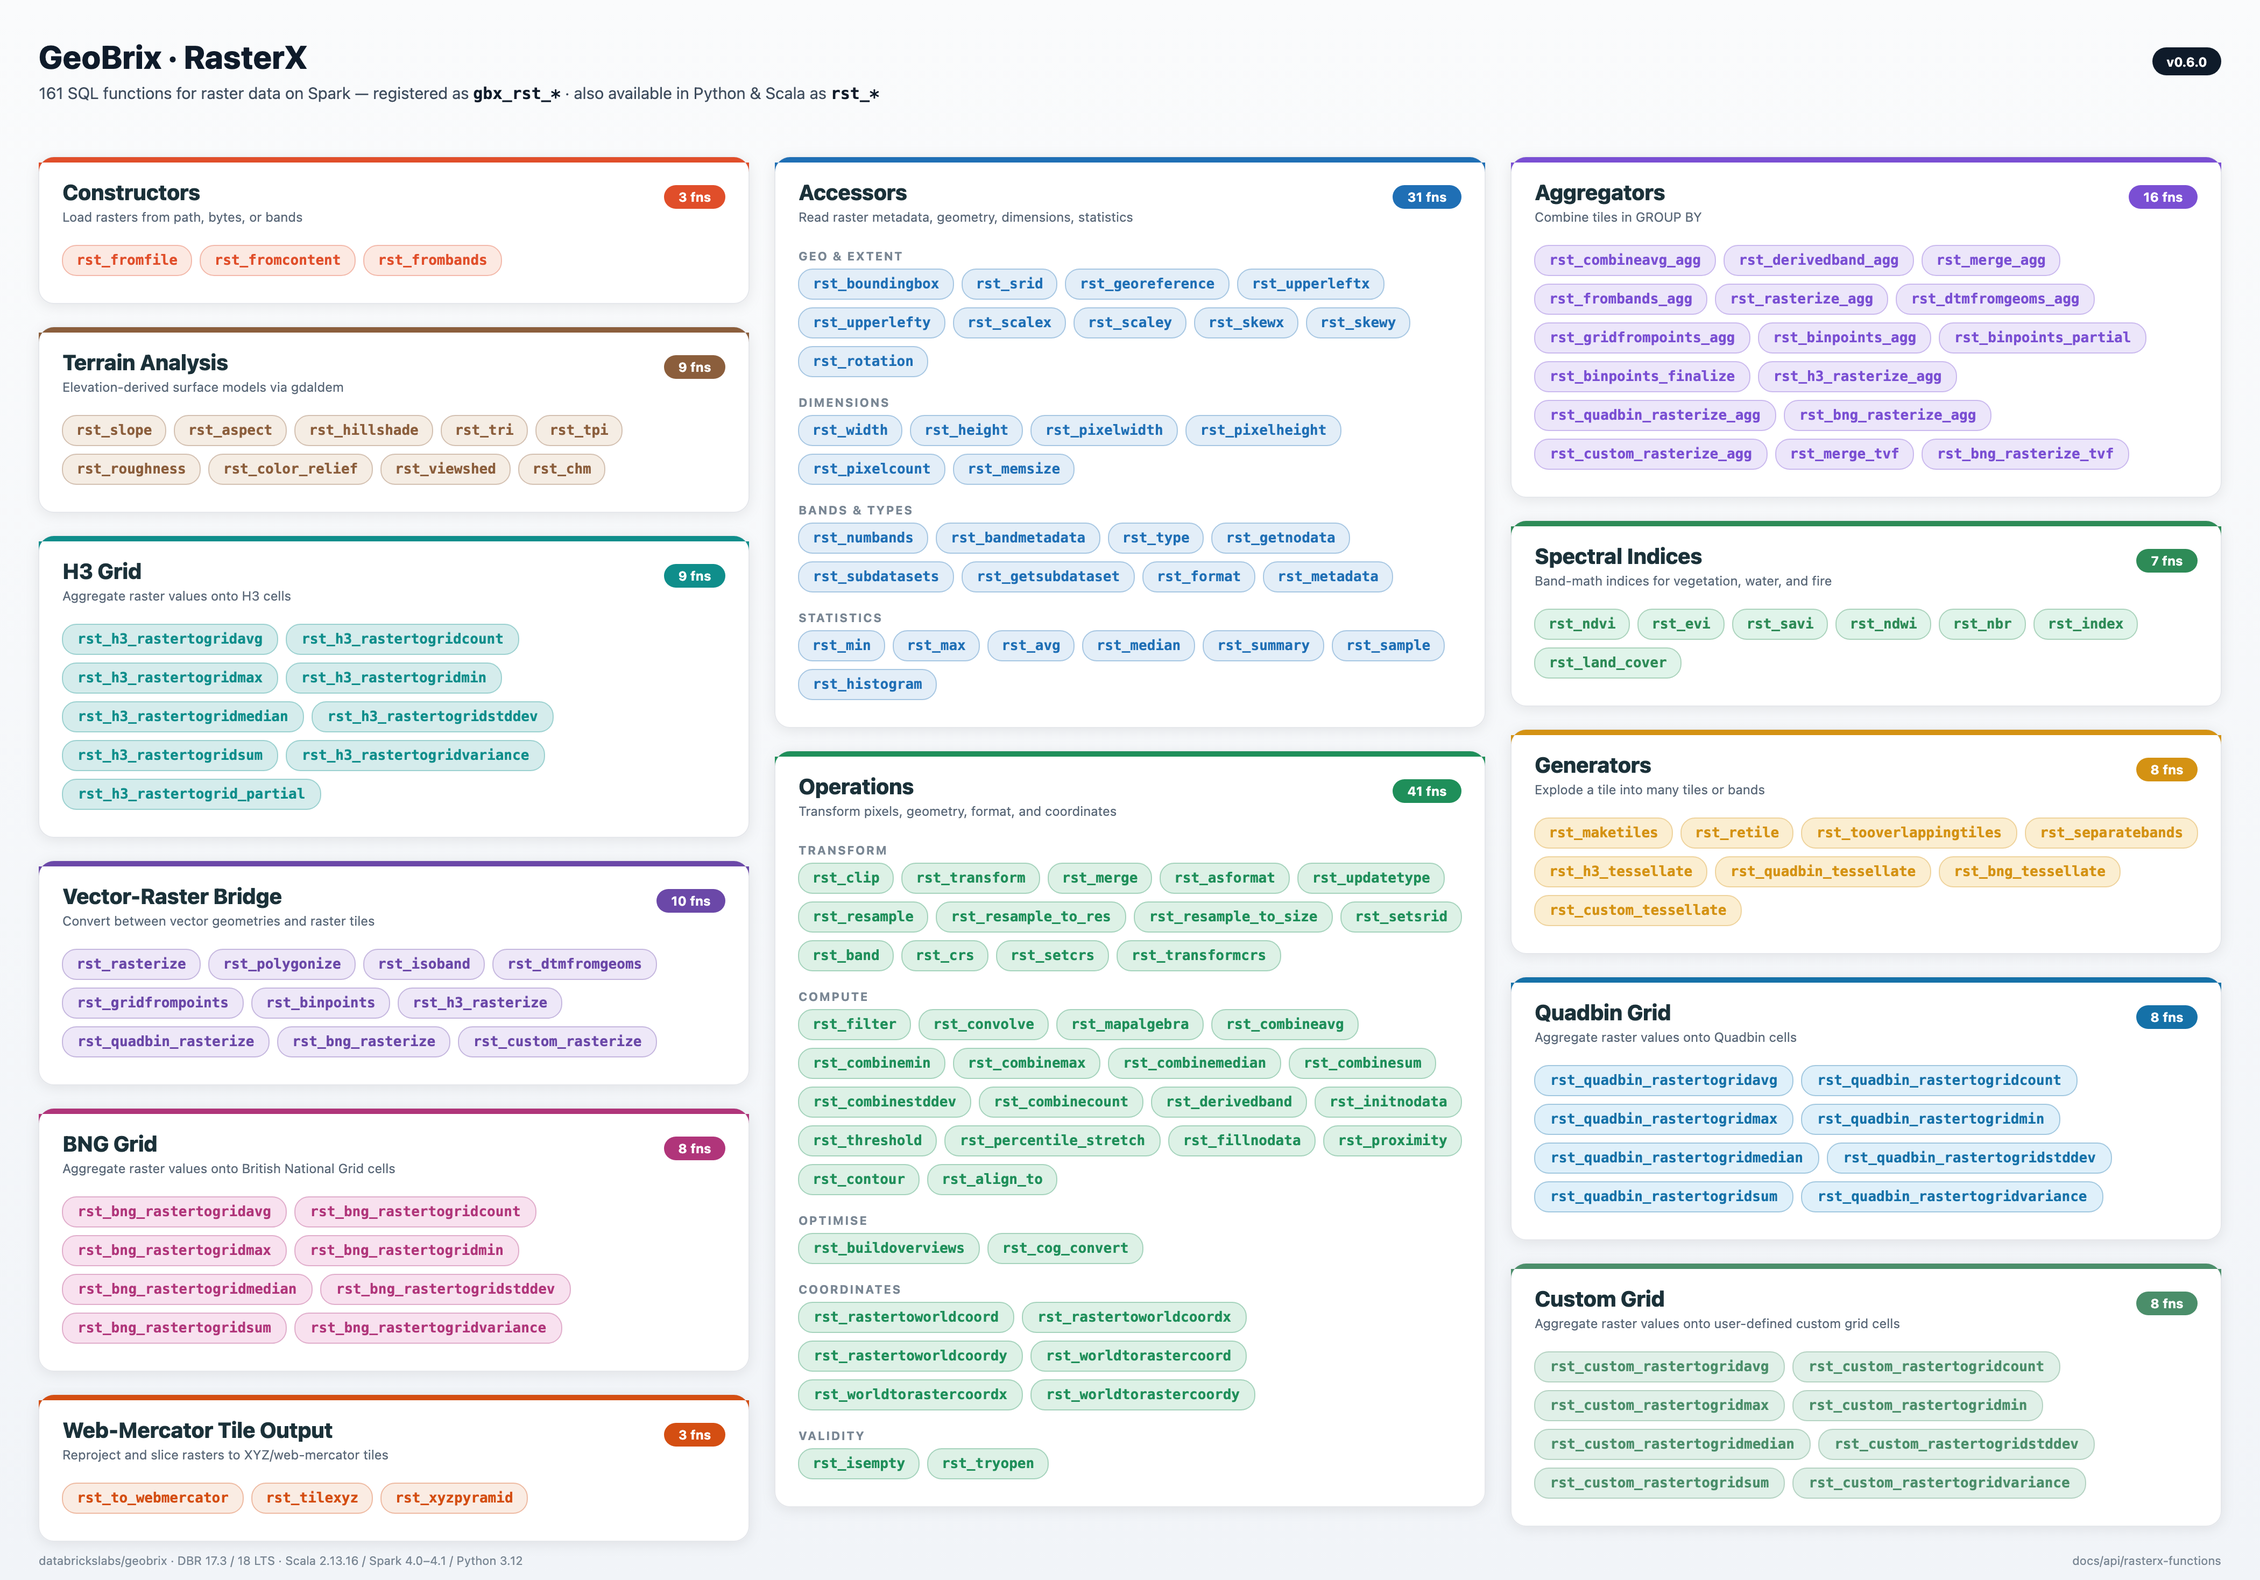
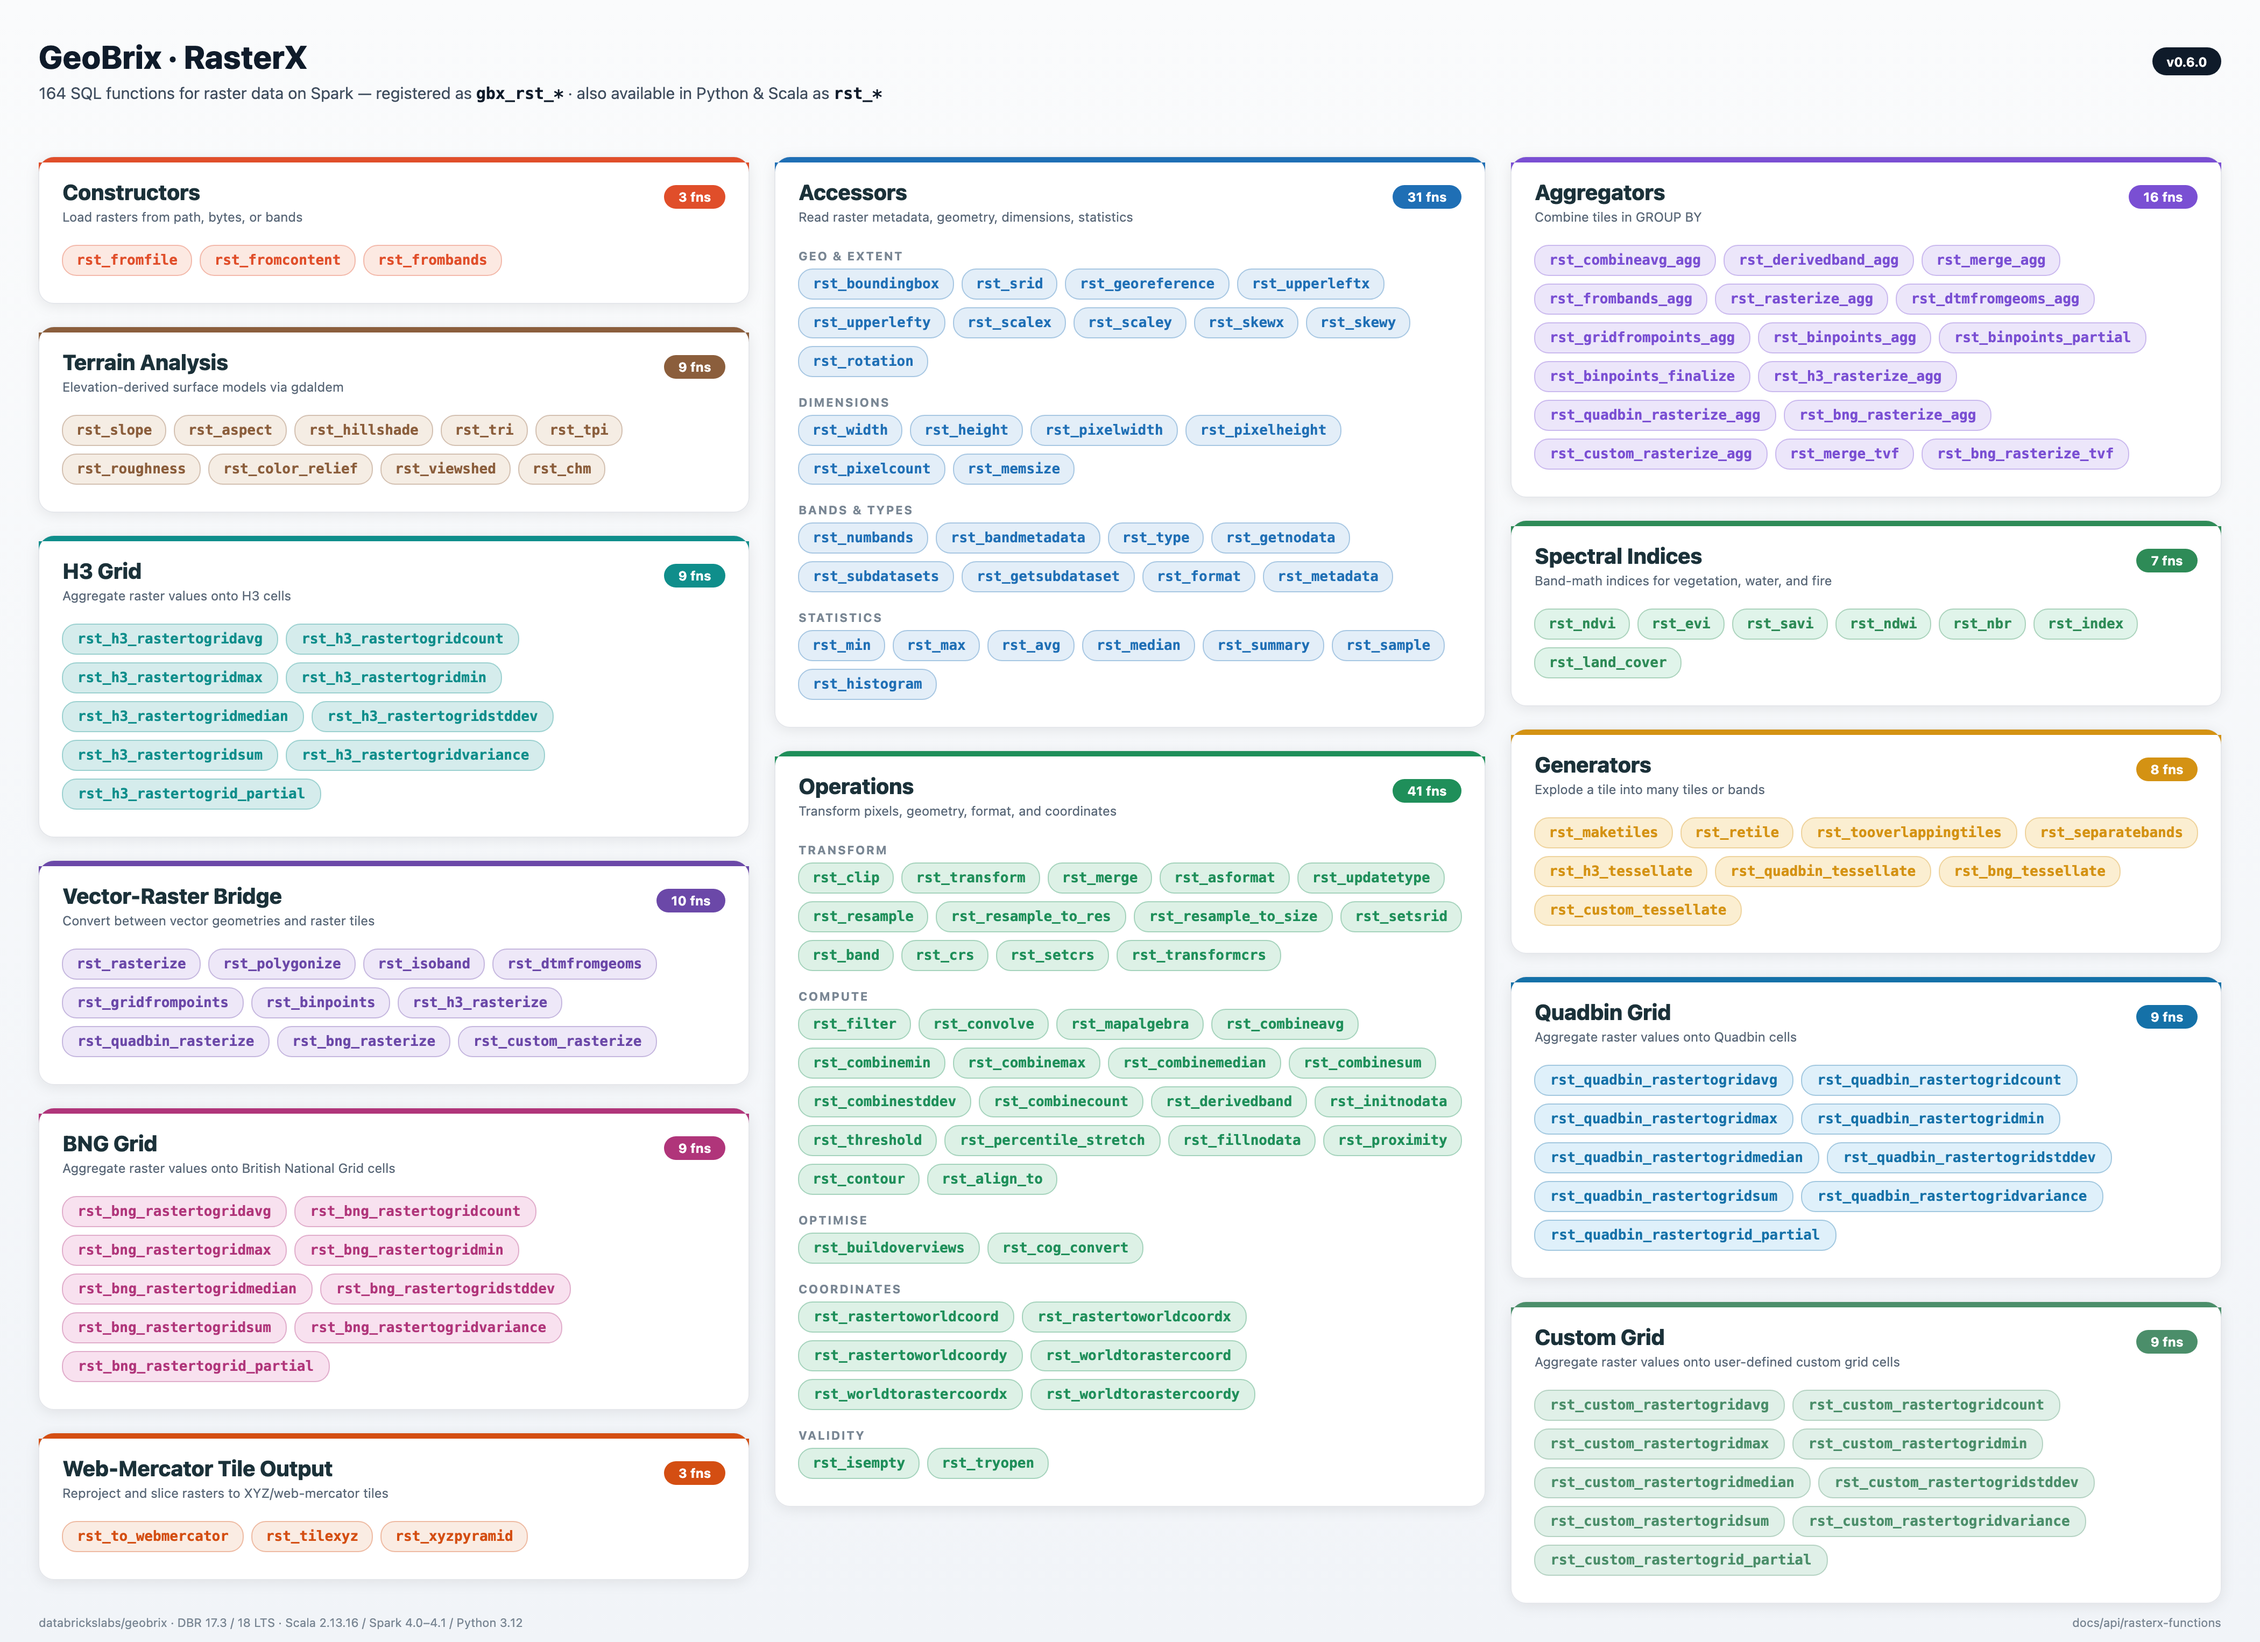
test: follow the range's changes in tier-b, runtime tests and diagram
CI would have caught these. The tier-b cap tests passed WKB bytes to the
geometry-array functions, which now take GEOMETRY values. The Connect
import tests named a BNG function that now runs as SQL and never reaches
the light level; they use one that still does. The RasterX diagram and the
intro count lacked the three new raster-to-grid partials.

Changed region(s): [[0.0, 0.093, 0.9981, 0.9608], [0.0, 0.031, 0.3743, 0.062]]

diff --git a/resources/images/generators/rasterx-function-categories.py b/resources/images/generators/rasterx-function-categories.py
@@ -28,7 +28,7 @@ Rasterize landscape PNG (for slides / 16:9 decks):
 from dataclasses import dataclass, field
 from textwrap import dedent
 
-# --- Data: 161 functions, organized by category --------------------------------
+# --- Data: 164 functions, organized by category --------------------------------
 
 @dataclass
 class Section:
@@ -189,6 +189,7 @@ CARDS_RIGHT = [
             "rst_quadbin_rastertogridmax", "rst_quadbin_rastertogridmin",
             "rst_quadbin_rastertogridmedian", "rst_quadbin_rastertogridstddev",
             "rst_quadbin_rastertogridsum", "rst_quadbin_rastertogridvariance",
+            "rst_quadbin_rastertogrid_partial",
         ],
     ),
     Card(
@@ -200,6 +201,7 @@ CARDS_RIGHT = [
             "rst_bng_rastertogridmax", "rst_bng_rastertogridmin",
             "rst_bng_rastertogridmedian", "rst_bng_rastertogridstddev",
             "rst_bng_rastertogridsum", "rst_bng_rastertogridvariance",
+            "rst_bng_rastertogrid_partial",
         ],
     ),
     Card(
@@ -211,6 +213,7 @@ CARDS_RIGHT = [
             "rst_custom_rastertogridmax", "rst_custom_rastertogridmin",
             "rst_custom_rastertogridmedian", "rst_custom_rastertogridstddev",
             "rst_custom_rastertogridsum", "rst_custom_rastertogridvariance",
+            "rst_custom_rastertogrid_partial",
         ],
     ),
     Card(
@@ -412,7 +415,7 @@ def render():
     )
     parts.append(
         f'<text x="{PAD}" y="{PAD + 56}" font-size="15" fill="#3F4D5E">'
-        f'161 SQL functions for raster data on Spark &#8212; registered as '
+        f'164 SQL functions for raster data on Spark &#8212; registered as '
         f'<tspan font-family="ui-monospace, SFMono-Regular, Menlo, monospace" '
         f'font-weight="700" fill="#0F1B2A">gbx_rst_*</tspan>'
         f' &#183; also available in Python &amp; Scala as '
@@ -521,7 +524,7 @@ def render_landscape():
     )
     parts.append(
         f'<text x="{PAD}" y="{PAD + 56}" font-size="15" fill="#3F4D5E">'
-        f'161 SQL functions for raster data on Spark &#8212; registered as '
+        f'164 SQL functions for raster data on Spark &#8212; registered as '
         f'<tspan font-family="ui-monospace, SFMono-Regular, Menlo, monospace" '
         f'font-weight="700" fill="#0F1B2A">gbx_rst_*</tspan>'
         f' &#183; also available in Python &amp; Scala as '

diff --git a/python/geobrix/test/manager/test_uc_tier_b.py b/python/geobrix/test/manager/test_uc_tier_b.py
@@ -7,6 +7,24 @@ from databricks.labs.gbx import manifest
 from databricks.labs.gbx.bench import oracles
 from databricks.labs.gbx.uc import tier_b
 
+
+class _Geometry:
+    """Stand-in for ``pyspark.sql.types.Geometry``, which a UC Python function receives for a GEOMETRY(ANY) element."""
+
+    def __init__(self, geom):
+        self._wkb = shapely.to_wkb(geom)
+
+    def getBytes(self):  # noqa: N802 - the pyspark name
+        return self._wkb
+
+    def getSrid(self):  # noqa: N802
+        return 0
+
+
+def _geometry():
+    return _Geometry(shapely.Point(1.0, 1.0))
+
+
 MAN = manifest.load()
 TIER_B = sorted(
     f.sql_name
@@ -450,8 +468,17 @@ def test_a_grid_over_the_cap_is_refused_before_the_kernel_is_asked_to_make_it(
     calls = {
         "gbx_rst_rasterize": (_square(), 1.0, *huge, 3857, None),
         "gbx_rst_binpoints": ([1.0], [1.0], [1.0], *huge, 3857, "max"),
-        "gbx_rst_gridfrompoints": ([b"\x01"], [1.0], *huge, 3857, 2.0, 12, None),
-        "gbx_rst_dtmfromgeoms": ([b"\x01"], [], 0.0, 0.0, *huge, 3857, -9999.0, None),
+        "gbx_rst_gridfrompoints": ([_geometry()], [1.0], *huge, 3857, 2.0, 12, None),
+        "gbx_rst_dtmfromgeoms": (
+            [_geometry()],
+            [],
+            0.0,
+            0.0,
+            *huge,
+            3857,
+            -9999.0,
+            None,
+        ),
     }
     for name, args in calls.items():
         with pytest.raises(
@@ -464,7 +491,7 @@ def test_a_grid_over_the_cap_is_refused_before_the_kernel_is_asked_to_make_it(
 def test_the_working_set_of_a_grid_not_only_its_pixels_is_held_to_the_cap():
     # 1000 x 1000 Float64 is 7 MiB decoded, but the nearest-12-points interpolation holds several arrays of it
     args = (
-        [b"\x01"] * 20,
+        [_geometry()] * 20,
         [1.0] * 20,
         0.0,
         0.0,

diff --git a/python/geobrix/test/manager/test_api_runtime.py b/python/geobrix/test/manager/test_api_runtime.py
@@ -38,10 +38,10 @@ def test_a_missing_light_dependency_is_named_with_a_fix(monkeypatch):
     monkeypatch.setattr(l3, "resolve_ref", no_pandas)
     monkeypatch.setattr(importlib.util, "find_spec", lambda name: None)  # truly absent
     with pytest.raises(ImportError) as err:
-        manager.register(ConnectStub(), only=["gbx_bng_eastnorthasbng"])
+        manager.register(ConnectStub(), only=["gbx_bng_centroid"])
     text = str(err.value)
     assert "lightweight functions need pandas" in text
-    assert "gbx_bng_eastnorthasbng" in text and "grid-scalar" in text
+    assert "gbx_bng_centroid" in text and "grid-scalar" in text
     assert "Fix: install the geobrix env wheel" in text and "pip install pandas" in text
     assert isinstance(err.value.__cause__, ModuleNotFoundError)
 
@@ -66,7 +66,7 @@ def test_an_import_error_of_an_installed_package_passes_through_unchanged(
     monkeypatch.setattr(l3, "resolve_ref", broken)
     monkeypatch.setattr(importlib.util, "find_spec", lambda name: object())
     with pytest.raises(ImportError) as err:
-        manager.register(ConnectStub(), only=["gbx_bng_eastnorthasbng"])
+        manager.register(ConnectStub(), only=["gbx_bng_centroid"])
     assert err.value is error and "lightweight functions need" not in str(err.value)
 
 
